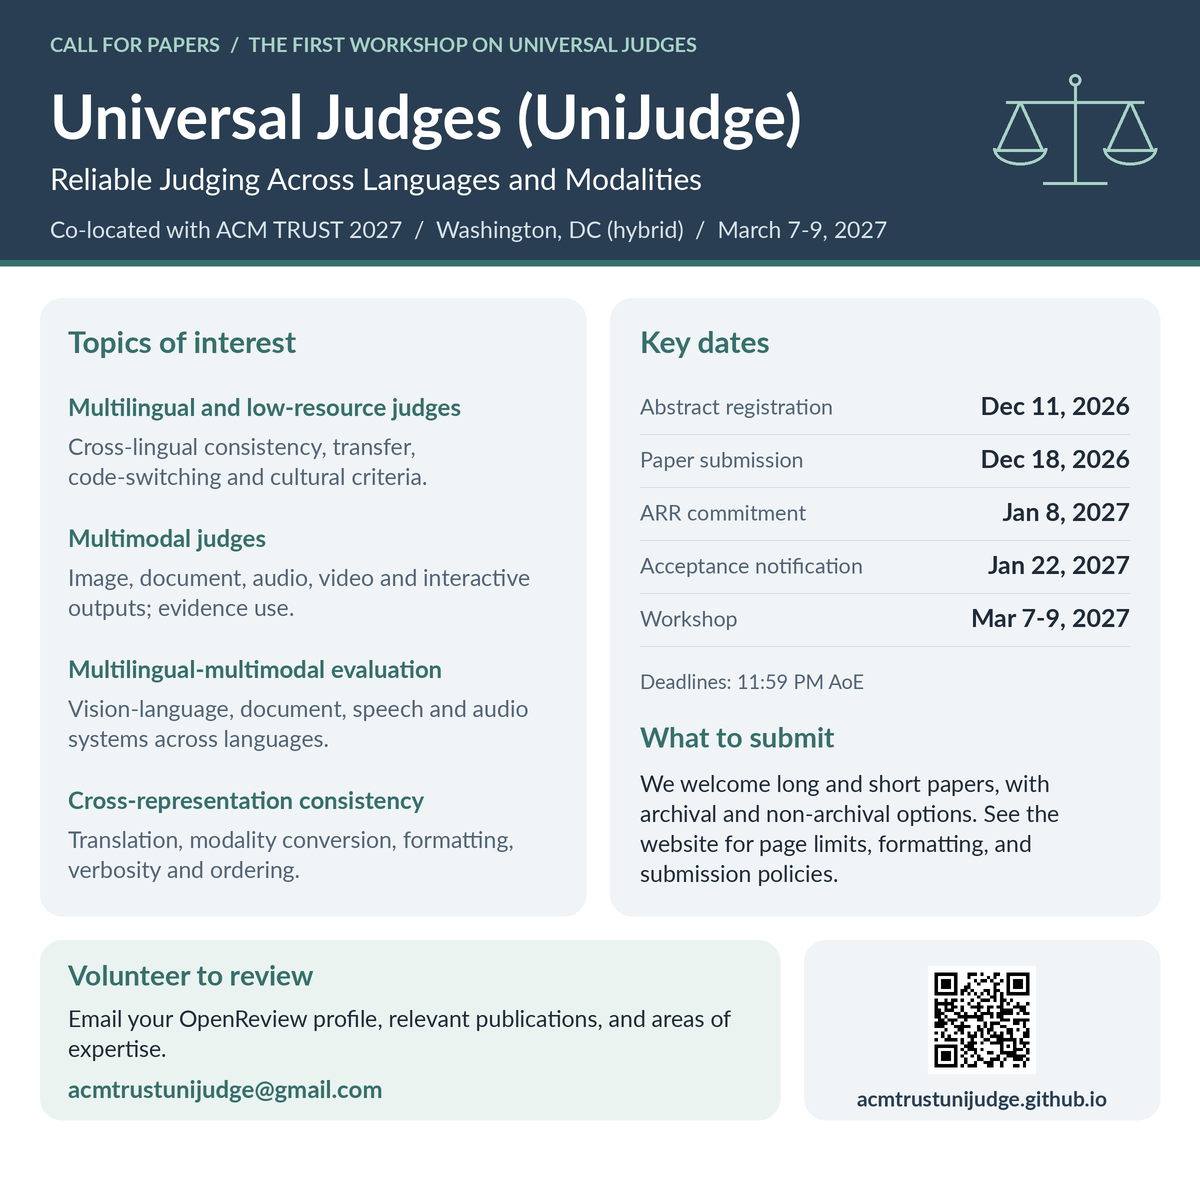
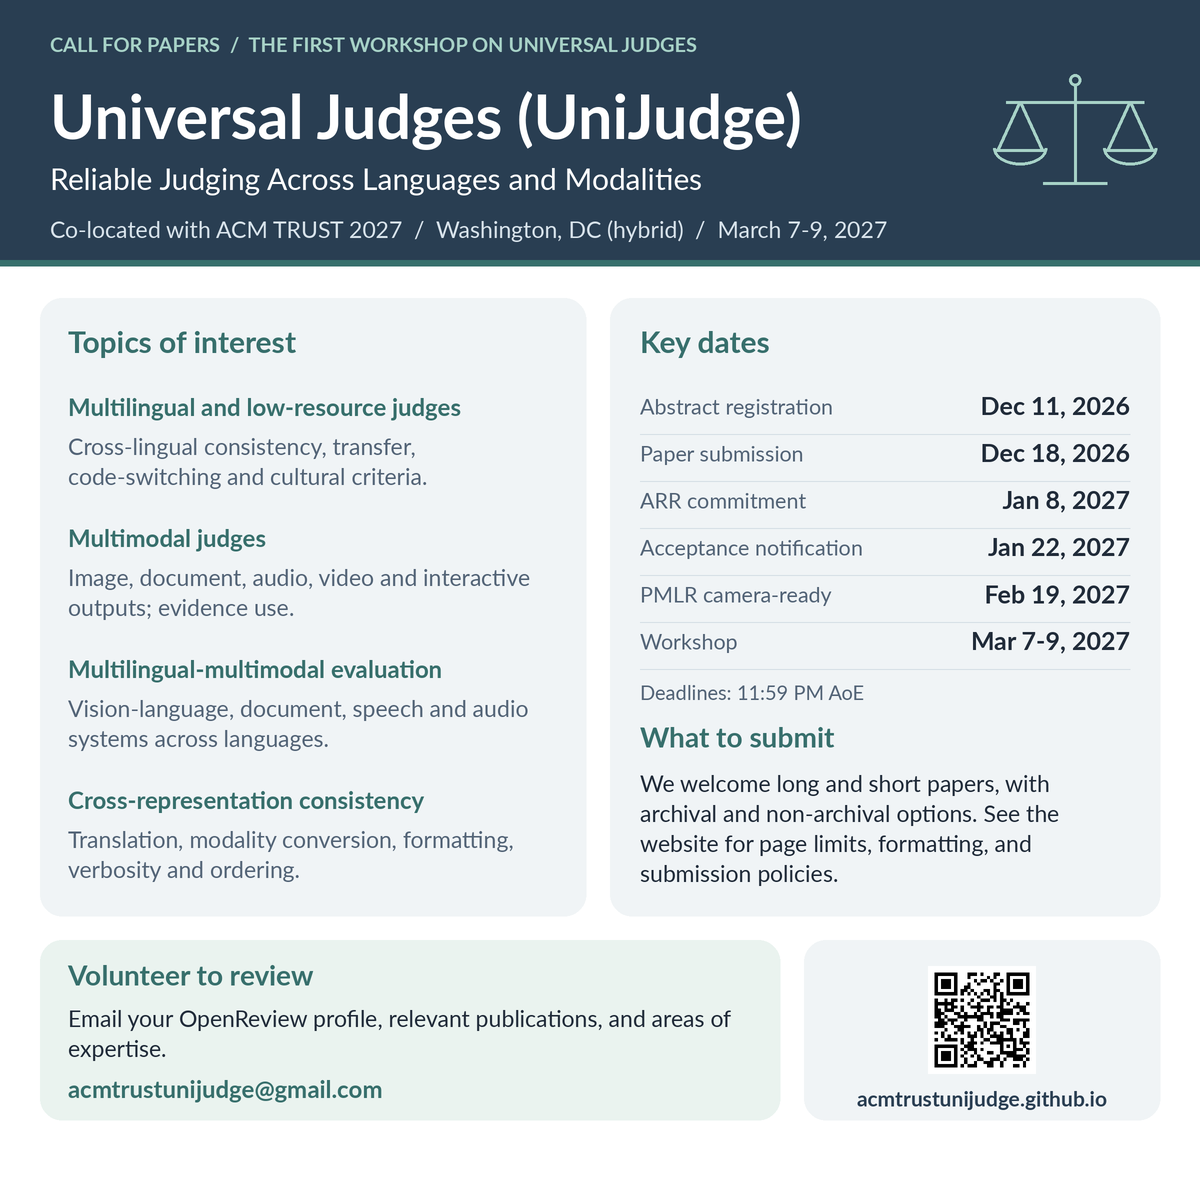
Add PMLR camera-ready deadline to site and CFPs

Changed region(s): [[0.5242, 0.37, 0.74, 0.5858], [0.8017, 0.37, 0.9558, 0.555]]

diff --git a/index.html b/index.html
@@ -519,6 +519,7 @@ var DATES = [
   {when:'December 18, 2026', what:'Paper submission deadline (direct)', key:true, hero:'Submissions due'},
   {when:'January 8, 2027', what:'ARR commitment deadline', key:true, hero:'ARR commitments due'},
   {when:'January 22, 2027',  what:'Acceptance notification', key:true, hero:'Notification'},
+  {when:'February 19, 2027', what:'PMLR camera-ready deadline', note:'Accepted archival papers only', key:true},
   {when:'March 7\u20139, 2027', what:'UniJudge @ ACM TRUST 2027', note:'Washington, DC \u00b7 hybrid', key:true, hero:'Workshop'}
 ];
 

diff --git a/scripts/build_linkedin.py b/scripts/build_linkedin.py
@@ -102,7 +102,8 @@ for title,body in topics:
 # Deadlines come from the website.
 text('Key dates',640,331,30,TEAL,True)
 rows=re.findall(r"\{when:'([^']+)',\s*what:'([^']+)'",HTML)
-labels=['Abstract registration','Paper submission','ARR commitment','Acceptance notification','Workshop']
+labels=['Abstract registration','Paper submission','ARR commitment','Acceptance notification',
+        'PMLR camera-ready','Workshop']
 assert len(rows)==len(labels)
 y=399
 for label,(when,_) in zip(labels,rows):
@@ -116,11 +117,11 @@ for label,(when,_) in zip(labels,rows):
     assert x>640+draw.textlength(label,font=font(21.5))/S+8
     text(date,x,y-2,25,INK,True)
     line([(640,y+35),(1130,y+35)],LINE)
-    y+=53
-text('Deadlines: 11:59 PM AoE',640,674,20,MUTED)
-text('What to submit',640,727,28,TEAL,True)
+    y+=47
+text('Deadlines: 11:59 PM AoE',640,y+4,20,MUTED)
+text('What to submit',640,y+46,28,TEAL,True)
 summary='We welcome long and short papers, with archival and non-archival options. See the website for page limits, formatting, and submission policies.'
-end=wrap(summary,640,775,490,23,30,INK)
+end=wrap(summary,640,y+94,490,23,30,INK)
 assert end<=910,end
 
 # Reviewer invitation uses the space freed by the condensed cards and footer.

diff --git a/scripts/build_cfp.py b/scripts/build_cfp.py
@@ -112,7 +112,8 @@ left -= 10
 
 # Read deadlines from the website so the flyer stays in sync.
 rows = re.findall(r"\{when:'([^']+)',\s*what:'([^']+)'", source)
-labels = ['Abstract registration', 'Paper submission', 'ARR commitment', 'Acceptance notification', 'Workshop']
+labels = ['Abstract registration', 'Paper submission', 'ARR commitment', 'Acceptance notification',
+          'PMLR camera-ready', 'Workshop']
 assert len(rows) == len(labels), 'Check the deadline list against the website.'
 dates = []
 for label, (when, _) in zip(labels, rows):
